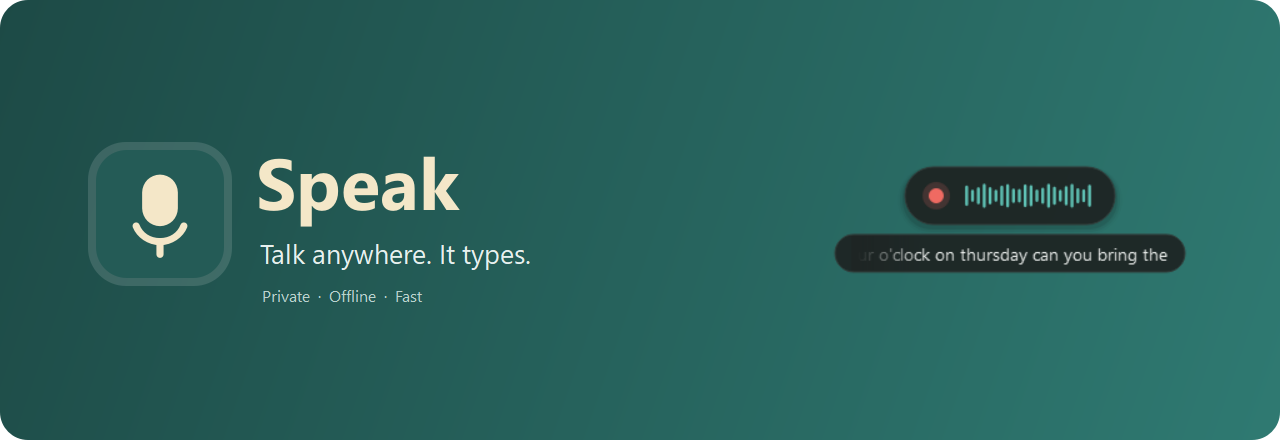
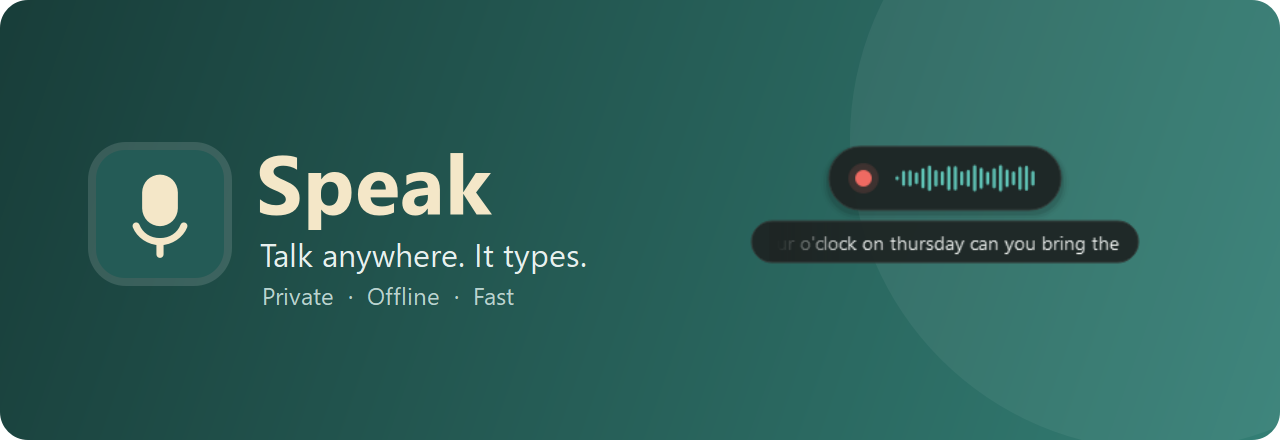
Add repository social preview image
Refresh the README hero to match the preview and document both generated assets.

Closes #11

diff --git a/tools/marketing_images.py b/tools/marketing_images.py
@@ -90,40 +90,87 @@ def main():
         painter = QPainter(image)
         painter.setRenderHint(QPainter.Antialiasing)
         gradient = QLinearGradient(0, 0, 1280, 440)
-        gradient.setColorAt(0, QColor("#1d4a46"))
-        gradient.setColorAt(1, QColor("#2f7a72"))
+        gradient.setColorAt(0, QColor("#183d39"))
+        gradient.setColorAt(1, QColor("#347f75"))
         painter.setPen(Qt.NoPen)
         painter.setBrush(gradient)
         painter.drawRoundedRect(QRectF(0, 0, 1280, 440), 28, 28)
+        painter.setBrush(QColor(255, 255, 255, 14))
+        painter.drawEllipse(QRectF(850, -170, 620, 620))
         painter.setBrush(QColor(255, 255, 255, 34))
         painter.drawRoundedRect(QRectF(88, 142, 144, 144), 38, 38)
         painter.drawPixmap(96, 150, app_icon().pixmap(128, 128))
         font = QFont(app.font())
-        font.setPointSize(54)
+        font.setPointSize(62)
         font.setWeight(QFont.Bold)
         painter.setFont(font)
         painter.setPen(QColor("#f4e7c8"))
         painter.drawText(QRectF(256, 130, 600, 100), Qt.AlignLeft | Qt.AlignVCenter, "Speak")
-        font.setPointSize(20)
+        font.setPointSize(24)
         font.setWeight(QFont.Normal)
         painter.setFont(font)
         painter.setPen(QColor("#e6f0ee"))
-        painter.drawText(QRectF(260, 228, 640, 50), Qt.AlignLeft | Qt.AlignVCenter, "Talk anywhere. It types.")
-        font.setPointSize(12)
+        painter.drawText(QRectF(260, 228, 420, 50), Qt.AlignLeft | Qt.AlignVCenter, "Talk anywhere. It types.")
+        font.setPointSize(18)
+        font.setWeight(QFont.Normal)
         painter.setFont(font)
         painter.setPen(QColor("#b9d3cf"))
         painter.drawText(QRectF(262, 280, 640, 30), Qt.AlignLeft | Qt.AlignVCenter, "Private  ·  Offline  ·  Fast")
         painter.drawPixmap(
-            int(1280 - overlay.width() * 1.25 - 80),
-            int(220 - overlay.height() * 1.25 / 2),
+            735,
+            130,
             overlay.scaled(
-                int(overlay.width() * 1.25), int(overlay.height() * 1.25),
+                420, 180,
                 Qt.KeepAspectRatio, Qt.SmoothTransformation,
             ),
         )
         painter.end()
         if not image.save(str(OUT / "hero.png")):
             raise OSError(f"Could not save {OUT / 'hero.png'}")
+
+    def save_social_preview():
+        overlay = QPixmap(str(OUT / "overlay-dark.png"))
+        image = QPixmap(1280, 640)
+        image.fill(Qt.transparent)
+        painter = QPainter(image)
+        painter.setRenderHint(QPainter.Antialiasing)
+        gradient = QLinearGradient(0, 0, 1280, 640)
+        gradient.setColorAt(0, QColor("#183d39"))
+        gradient.setColorAt(1, QColor("#347f75"))
+        painter.setPen(Qt.NoPen)
+        painter.setBrush(gradient)
+        painter.drawRect(0, 0, 1280, 640)
+        painter.setBrush(QColor(255, 255, 255, 14))
+        painter.drawEllipse(QRectF(850, -170, 620, 620))
+
+        painter.setBrush(QColor(255, 255, 255, 34))
+        painter.drawRoundedRect(QRectF(88, 248, 144, 144), 38, 38)
+        painter.drawPixmap(96, 256, app_icon().pixmap(128, 128))
+        font = QFont(app.font())
+        font.setPointSize(62)
+        font.setWeight(QFont.Bold)
+        painter.setFont(font)
+        painter.setPen(QColor("#f4e7c8"))
+        painter.drawText(QRectF(256, 236, 450, 100), Qt.AlignLeft | Qt.AlignVCenter, "Speak")
+
+        font.setPointSize(24)
+        font.setWeight(QFont.Normal)
+        painter.setFont(font)
+        painter.setPen(QColor("#e6f0ee"))
+        painter.drawText(QRectF(260, 326, 420, 50), Qt.AlignLeft | Qt.AlignVCenter, "Talk anywhere. It types.")
+
+        font.setPointSize(18)
+        painter.setFont(font)
+        painter.setPen(QColor("#b9d3cf"))
+        painter.drawText(QRectF(262, 374, 420, 32), Qt.AlignLeft | Qt.AlignVCenter, "Private  ·  Offline  ·  Fast")
+        painter.drawPixmap(
+            735,
+            230,
+            overlay.scaled(420, 180, Qt.KeepAspectRatio, Qt.SmoothTransformation),
+        )
+        painter.end()
+        if not image.save(str(OUT / "social-preview.png")):
+            raise OSError(f"Could not save {OUT / 'social-preview.png'}")
 
     def render_dark():
         speak._update({"theme": "Dark"})
@@ -142,6 +189,7 @@ def main():
 
         def capture_hero():
             save_hero()
+            save_social_preview()
             speak.quit()
 
         schedule(500, capture_dictate)

diff --git a/.agents/skills/speak-marketing-images/SKILL.md b/.agents/skills/speak-marketing-images/SKILL.md
@@ -13,7 +13,7 @@ From the repo root:
 .\.venv\Scripts\python.exe -m tools.marketing_images
 ```
 
-The script writes seven PNGs into `docs/images/`: light and dark Dictate/Settings screenshots, light and dark overlay screenshots, and the README hero. Pass a different output directory to preview changes without overwriting tracked images:
+The script writes eight PNGs into `docs/images/`: light and dark Dictate/Settings screenshots, light and dark overlay screenshots, the README hero, and the 1280 × 640 social preview. Pass a different output directory to preview changes without overwriting tracked images:
 
 ```powershell
 .\.venv\Scripts\python.exe -m tools.marketing_images "$env:TEMP\speak-images"
@@ -24,7 +24,7 @@ Open the generated PNGs with the `view` tool. Check framing, text, theme, spacin
 ## How the originals were made
 
 - Screenshots are real PySide6 widgets from `SpeakApp`, not browser mockups. The script forces a successful example result into Dictate, switches to Settings, and captures the floating `Overlay` separately.
-- The hero is a 1280 × 440 `QPixmap` painted with `QPainter`: gradient background, the app's `app_icon()`, tagline, feature line, and scaled dark overlay.
+- The hero and social preview are composed with `QPainter`, using the app's `app_icon()` and rendered dark overlay.
 - A fixed sample transcript makes screenshots repeatable. Update `EXAMPLE` or `LIVE_TEXT` in the tool when the copy should change; keep sample content short enough not to clip.
 - The script writes settings, history, and logs under a temporary app-data directory; disables hotkey registration, permissions checks, model warm-up, and update checks. It needs no microphone, model download, or real user settings.
 - Capture timing uses short Qt timer delays so pages render before `grab()`. If UI transitions change, adjust the capture steps in `tools/marketing_images.py`, then render and inspect every output.
